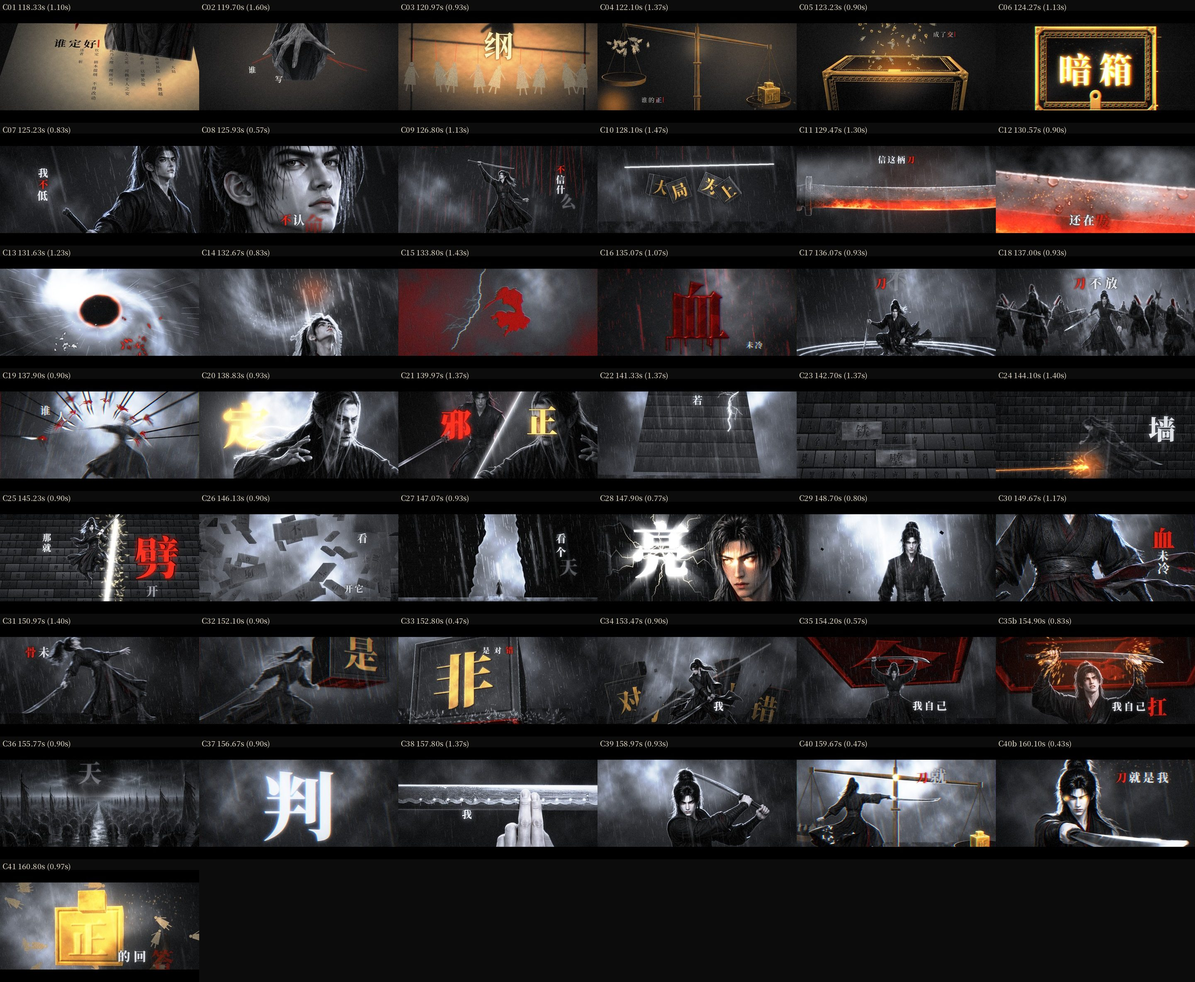
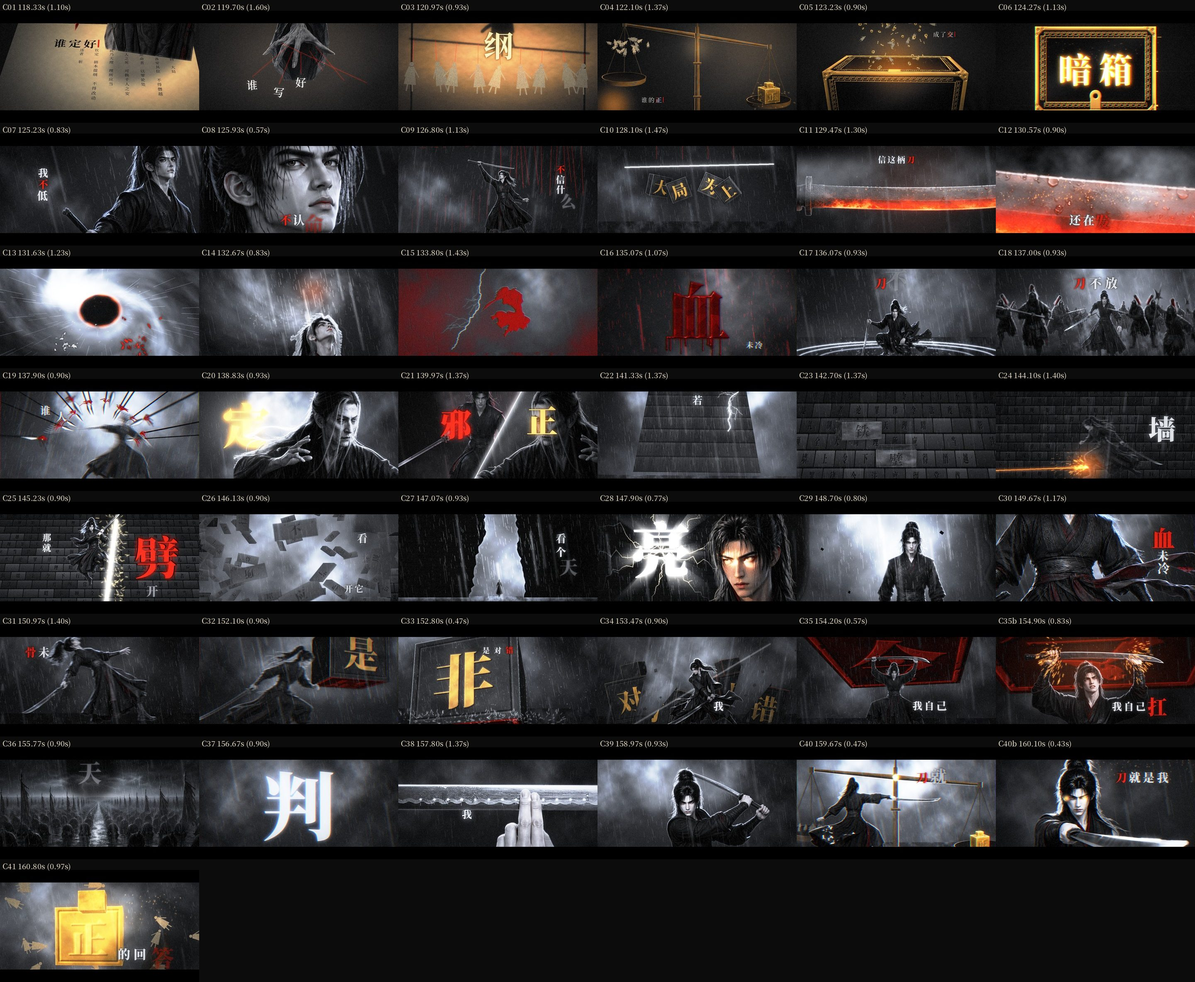
[C组] 第四棒 5/n：C02 挂字 72→104px 画在手前；contact_v5/keys_v3 重渲并切块（_p*.jpg ≤1440×1184 供评审直接读）

diff --git a/crew/CONVERSATION.md b/crew/CONVERSATION.md
@@ -1212,3 +1212,7 @@ Seedance 六种模式以租户实际启用的为准：text2video（文字）、i
 ### Hark · 2026-11-09T03:12:23Z
 
 E 组先交片：生了 2 张新精灵（6 积分），E21 的脸终于和 E16 是同一个人，纸扎、碑林、地平线、分屏转场都重做了。已派独立评审打第二轮分，其余四组还在跑。
+
+### Hark · 2026-11-09T03:20:01Z
+
+E 段第二轮 76 分，打回。精致度只有 10/15，E08 老者脸上有网格线和白发毛边，E31 署名镜右侧露出灰边。E 组已按评审 4 条 P0、9 条 P1 开始第五棒返工。
